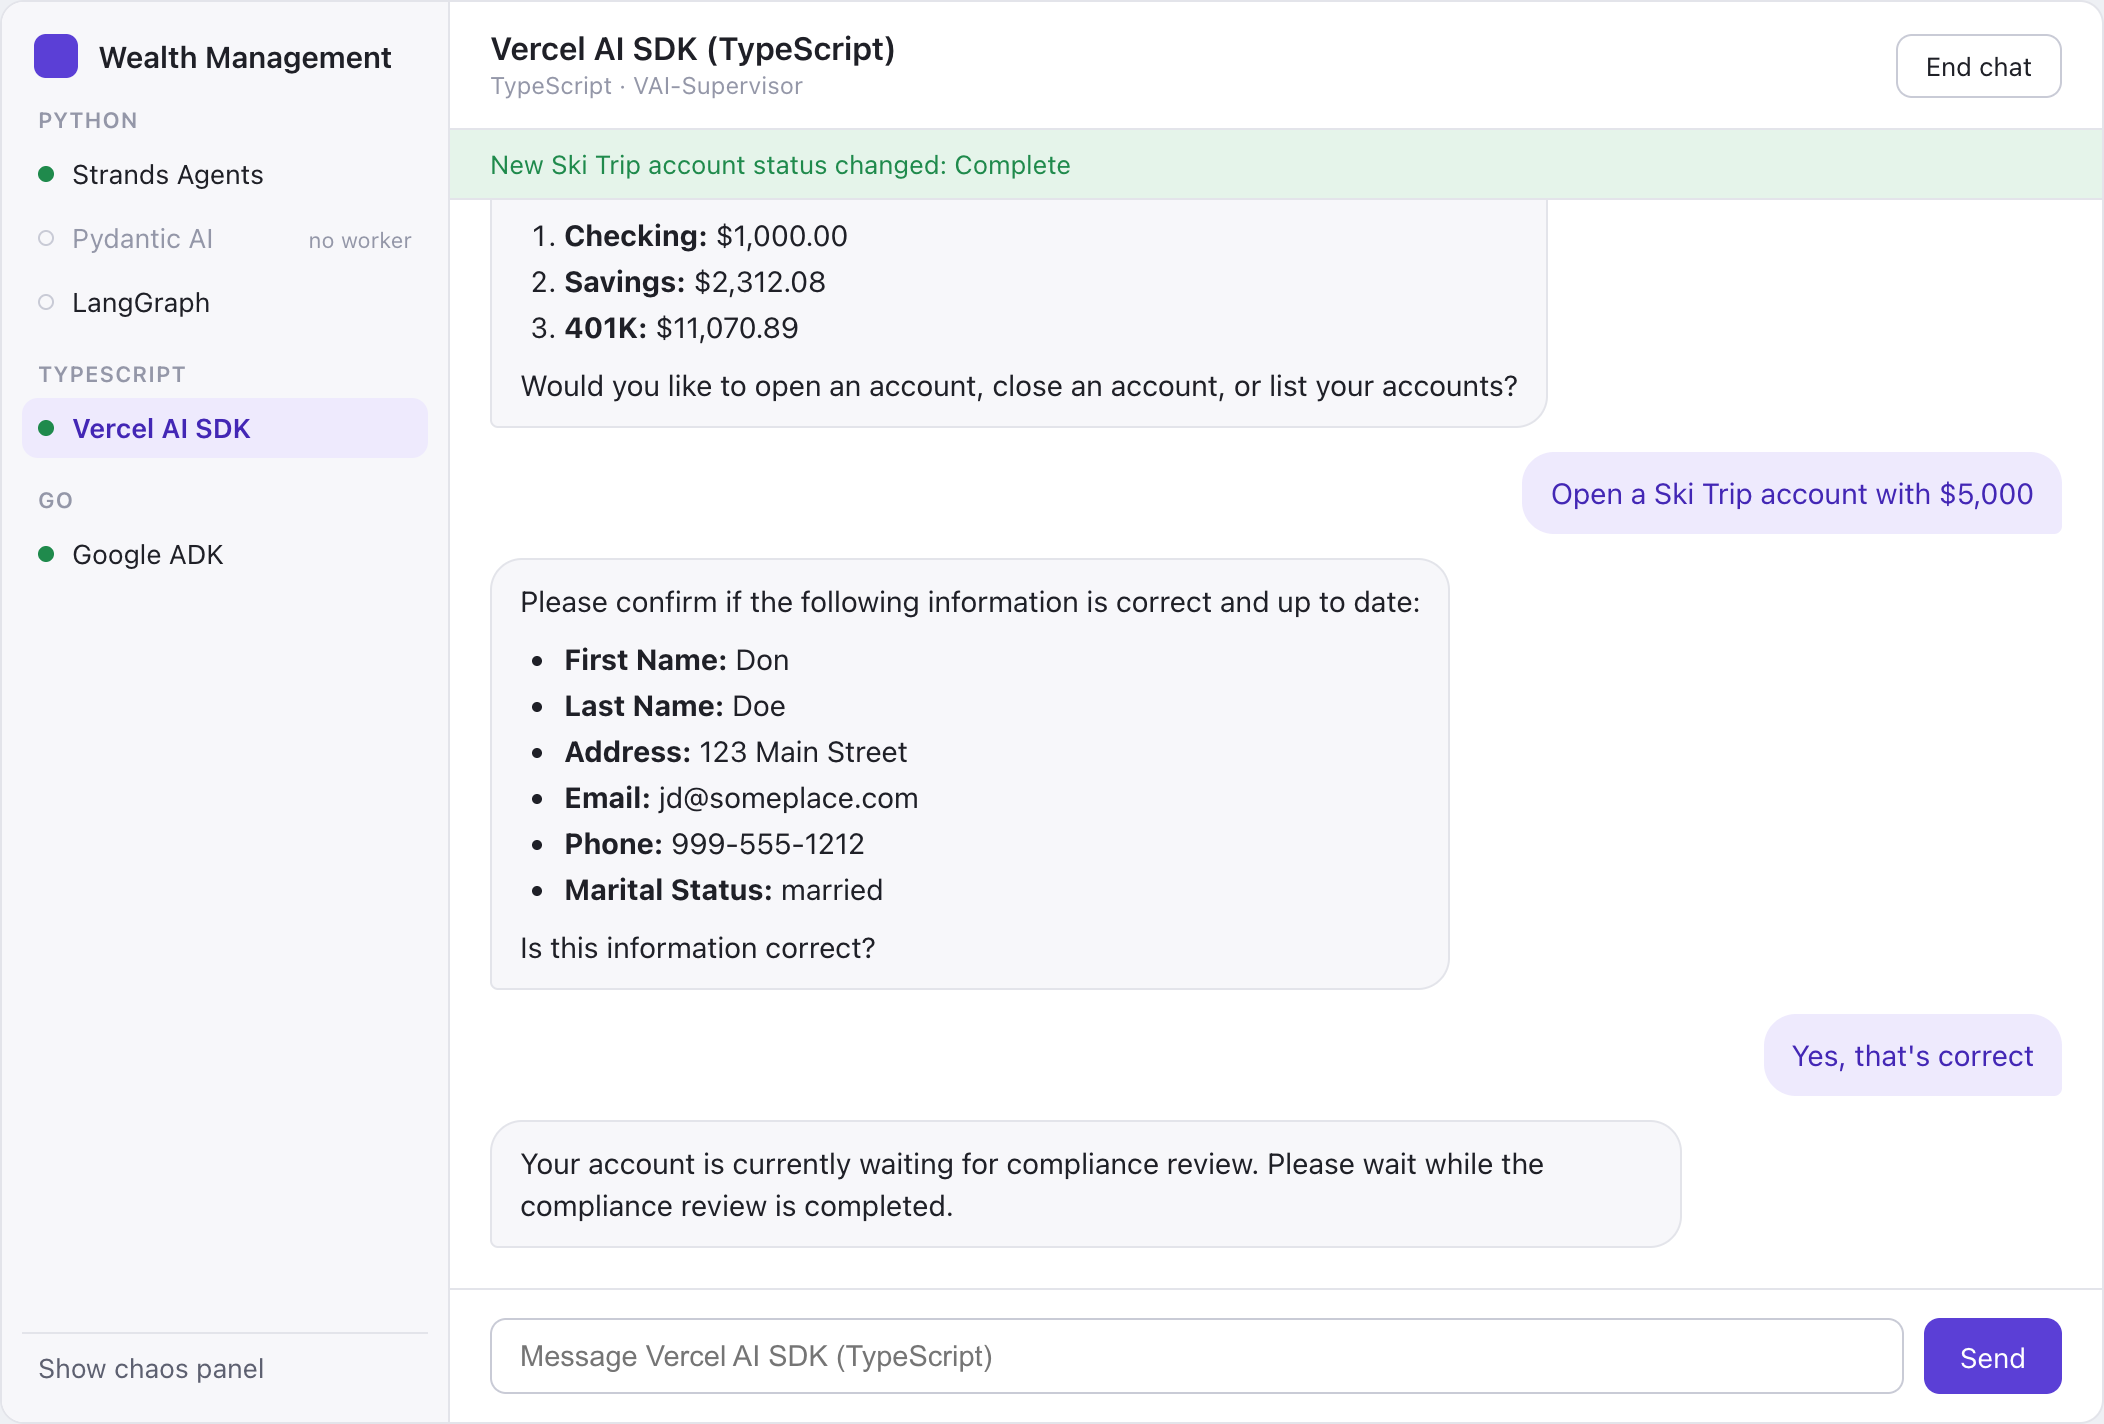
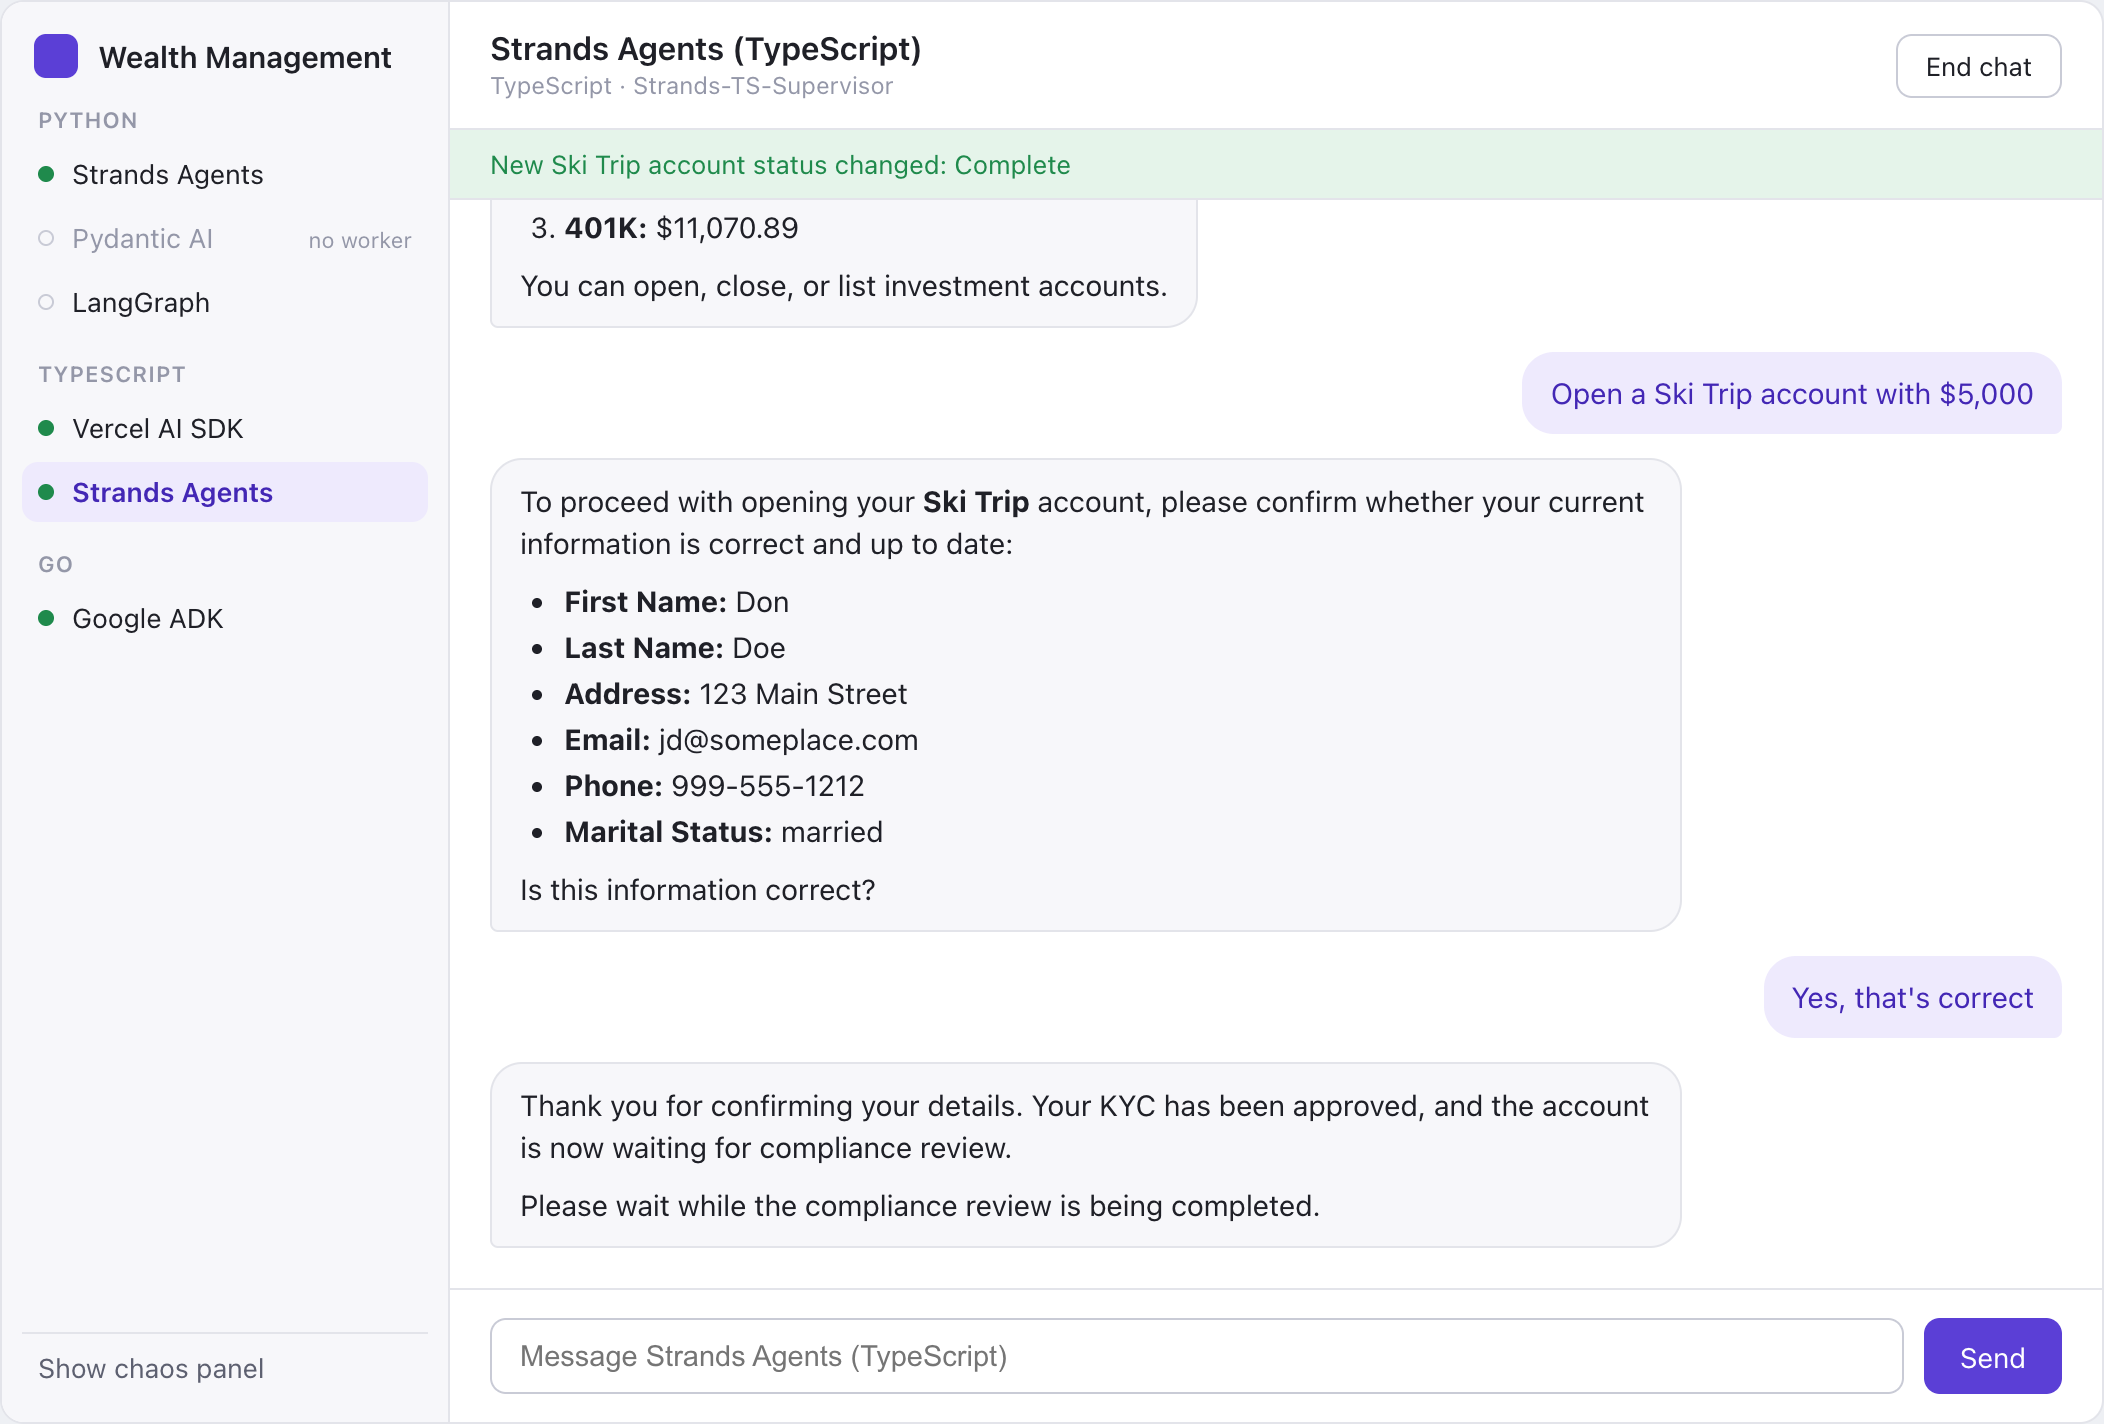
Retake the web UI sidebar screenshots with Strands Agents (TypeScript)

diff --git a/frontend/README.md b/frontend/README.md
@@ -109,7 +109,7 @@ npm test
 
 ## Example
 
-Here's the web application with three frameworks, a chat running in each, and the chaos panel open. The sidebar
+Here's the web application with six frameworks, a chat running in four of them, and the chaos panel open. The sidebar
 lists the frameworks the API serves (from its `GET /api/config`), and **Show chaos panel** / **Hide chaos panel** at its bottom
 opens or hides the chaos panel, which turns failures on and off while you chat. Next to it, the sidebar shows how many
 flags are on:
